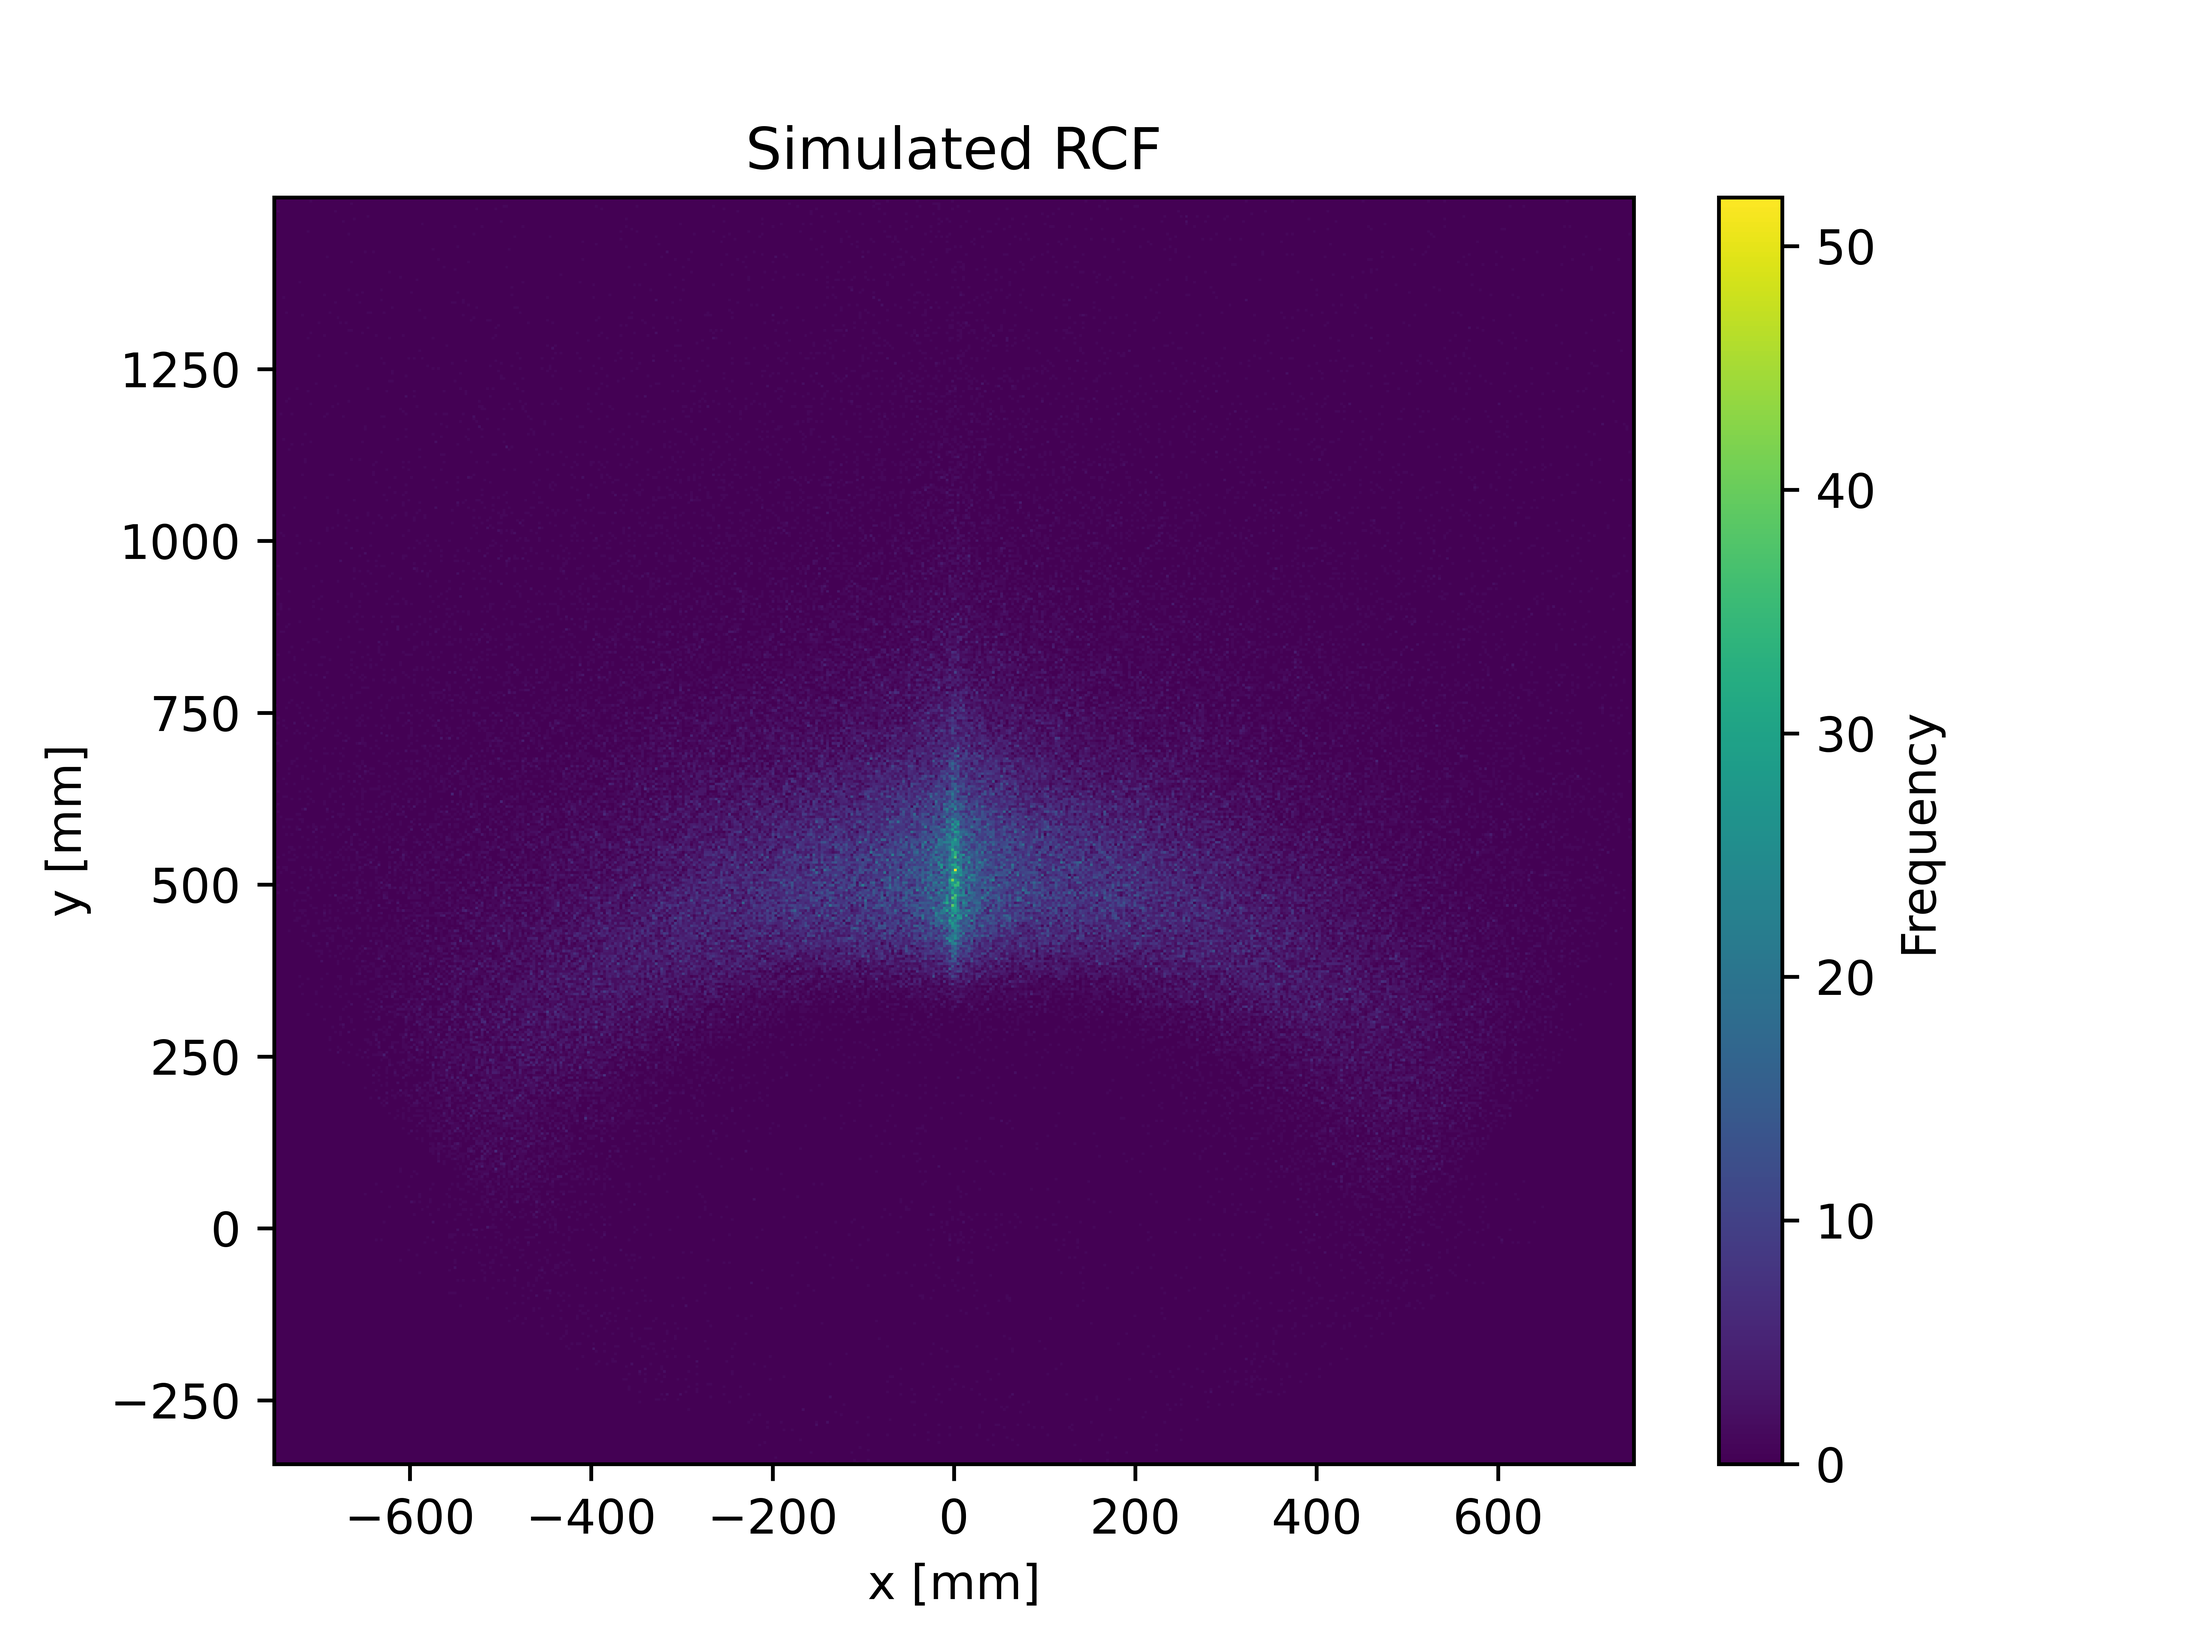
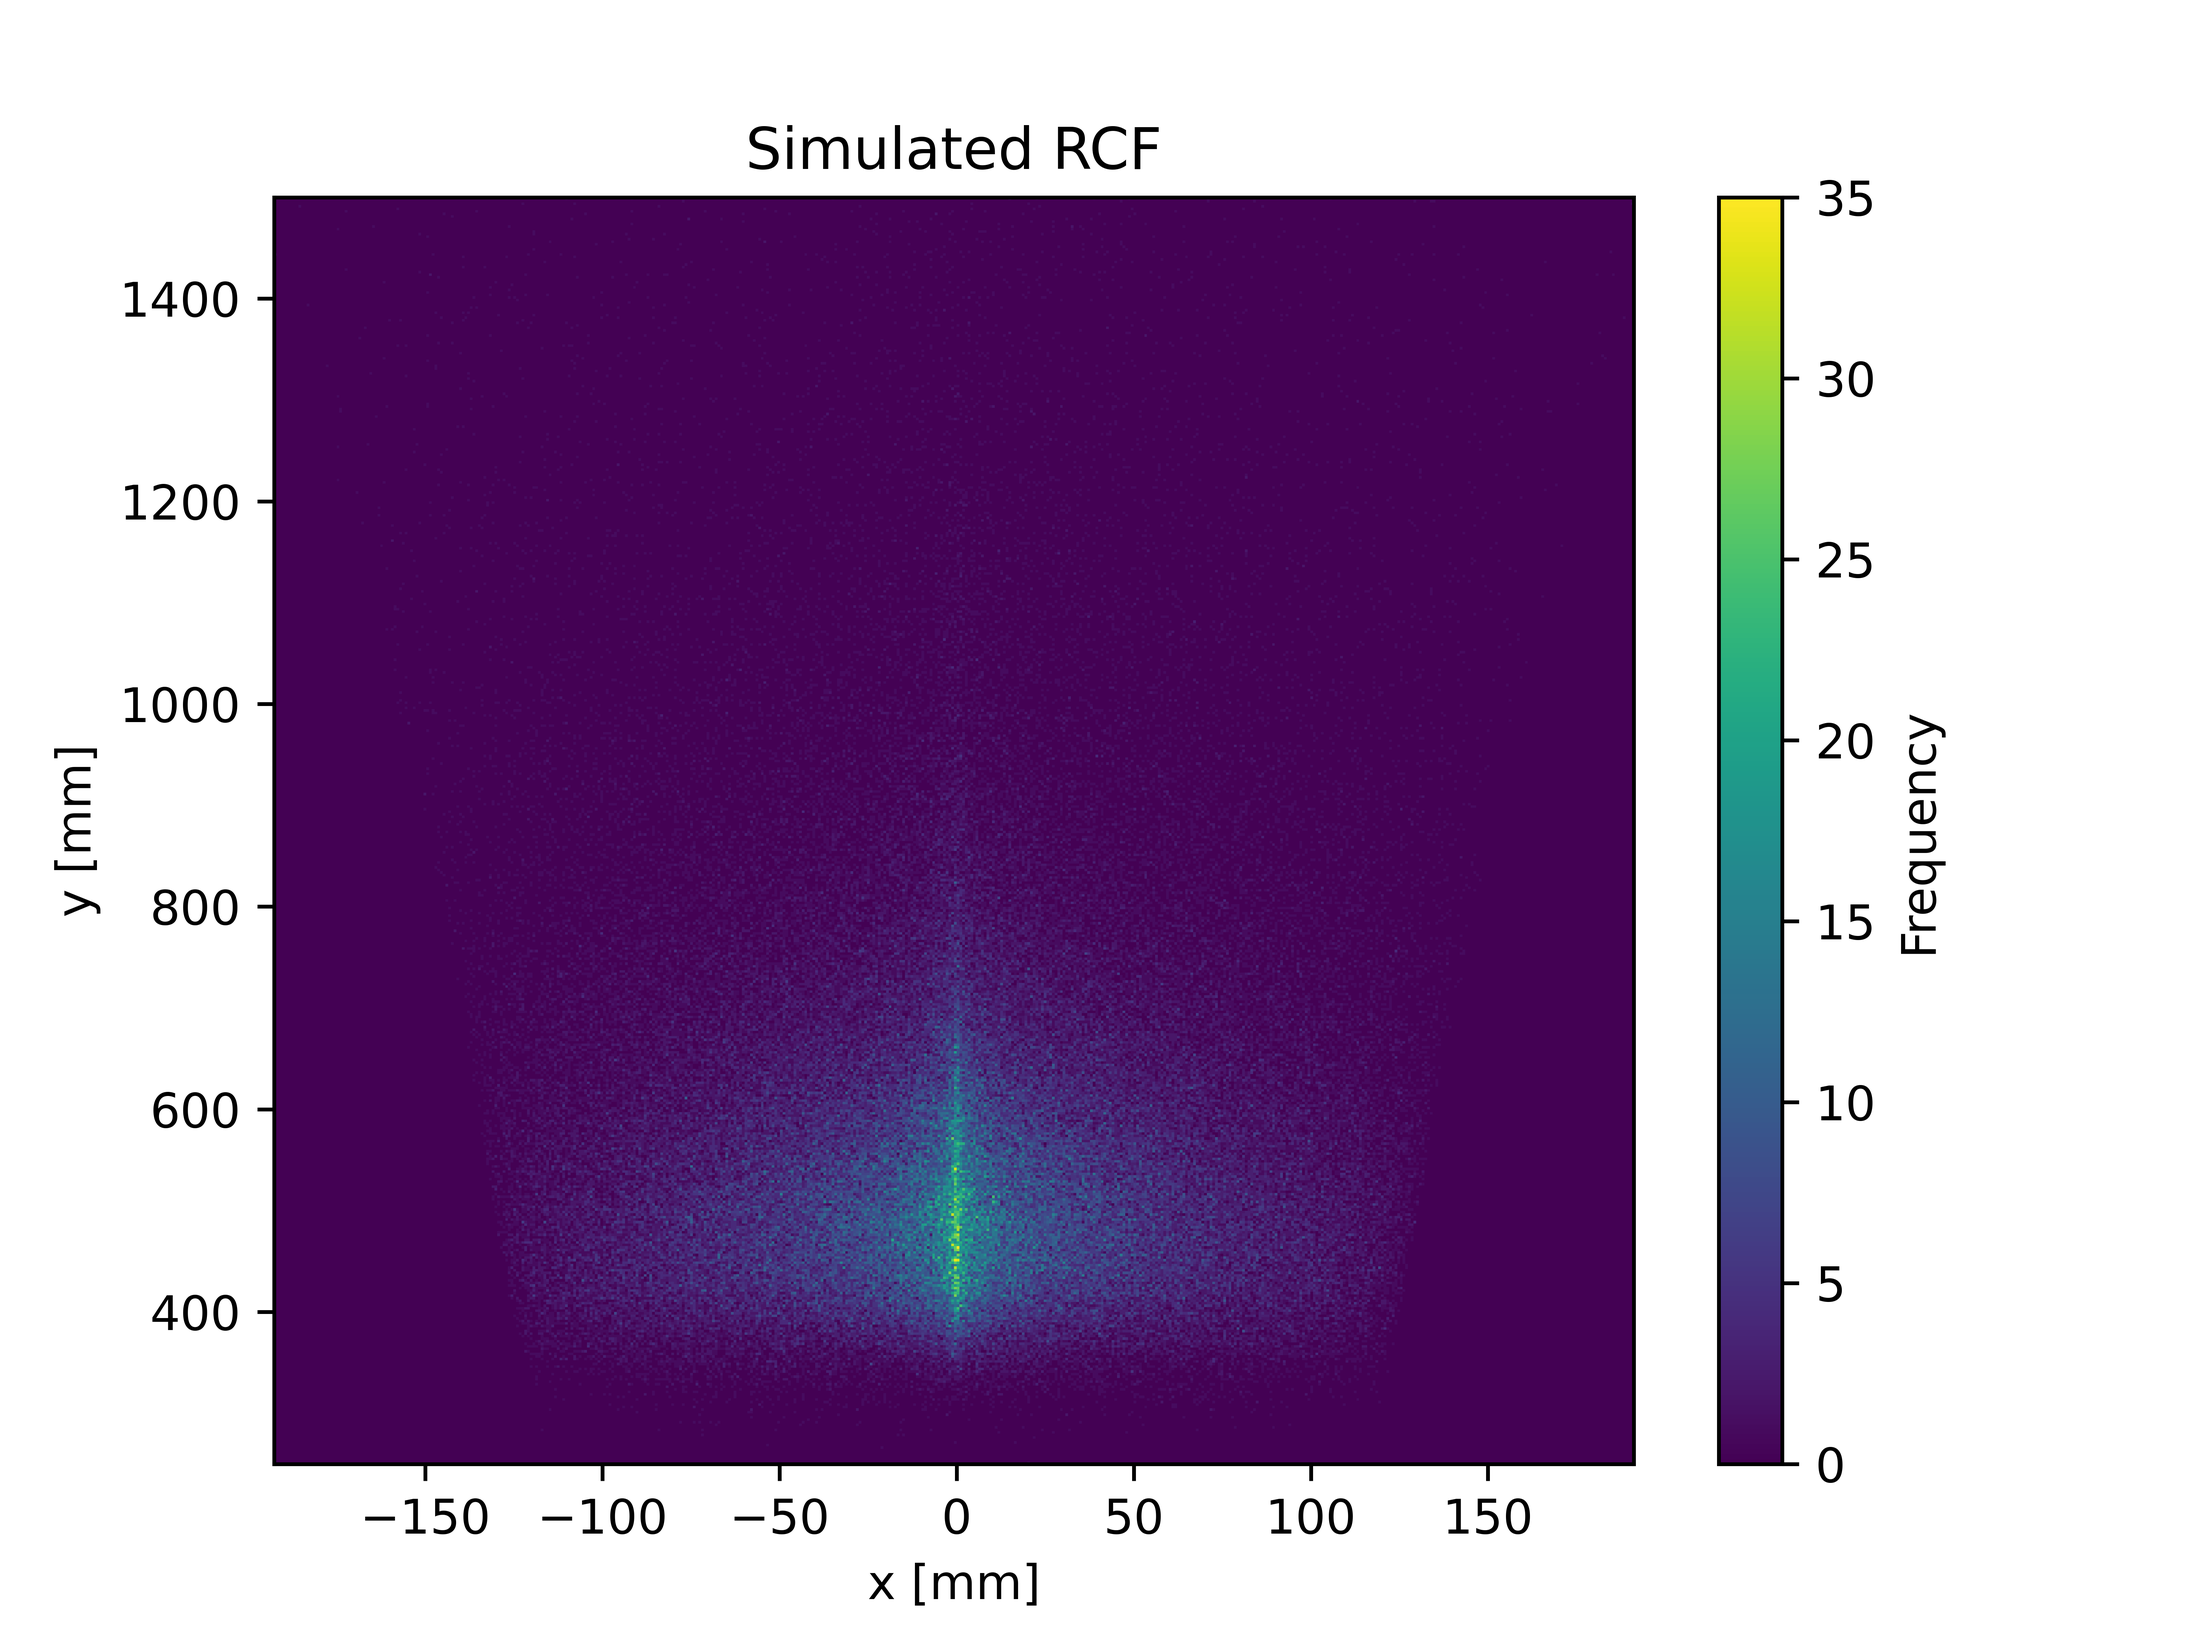
200k focused

diff --git a/BB_RCF.py b/BB_RCF.py
@@ -223,7 +223,7 @@ class ProtonBeam():
             if distribution == 'even':
                 spread = np.sqrt(np.random.rand())*np.pi/100
             elif distribution == 'central':
-                spread = np.random.rand()*np.pi/10
+                spread = np.random.rand()*np.pi/50
             elif distribution == 'edge':
                 spread = np.sqrt(np.sqrt(np.random.rand()))*np.pi/20
             traj = np.random.rand()*2*np.pi
